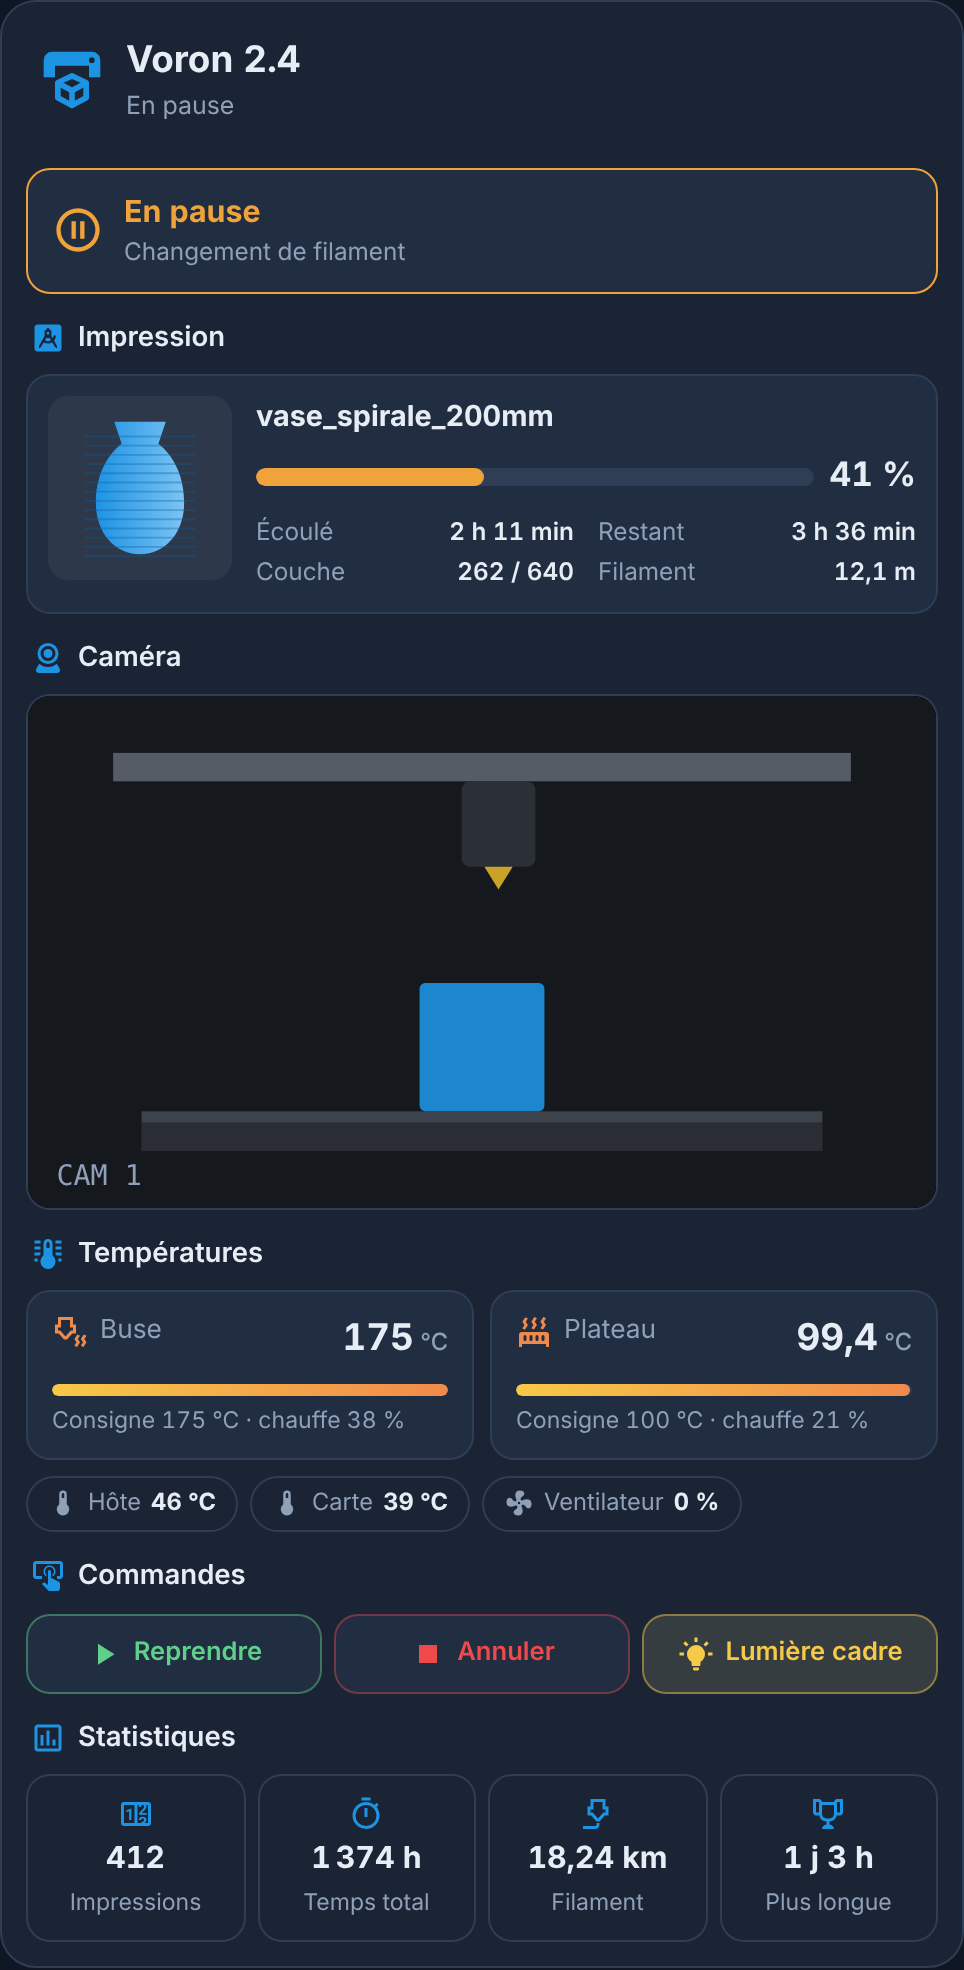
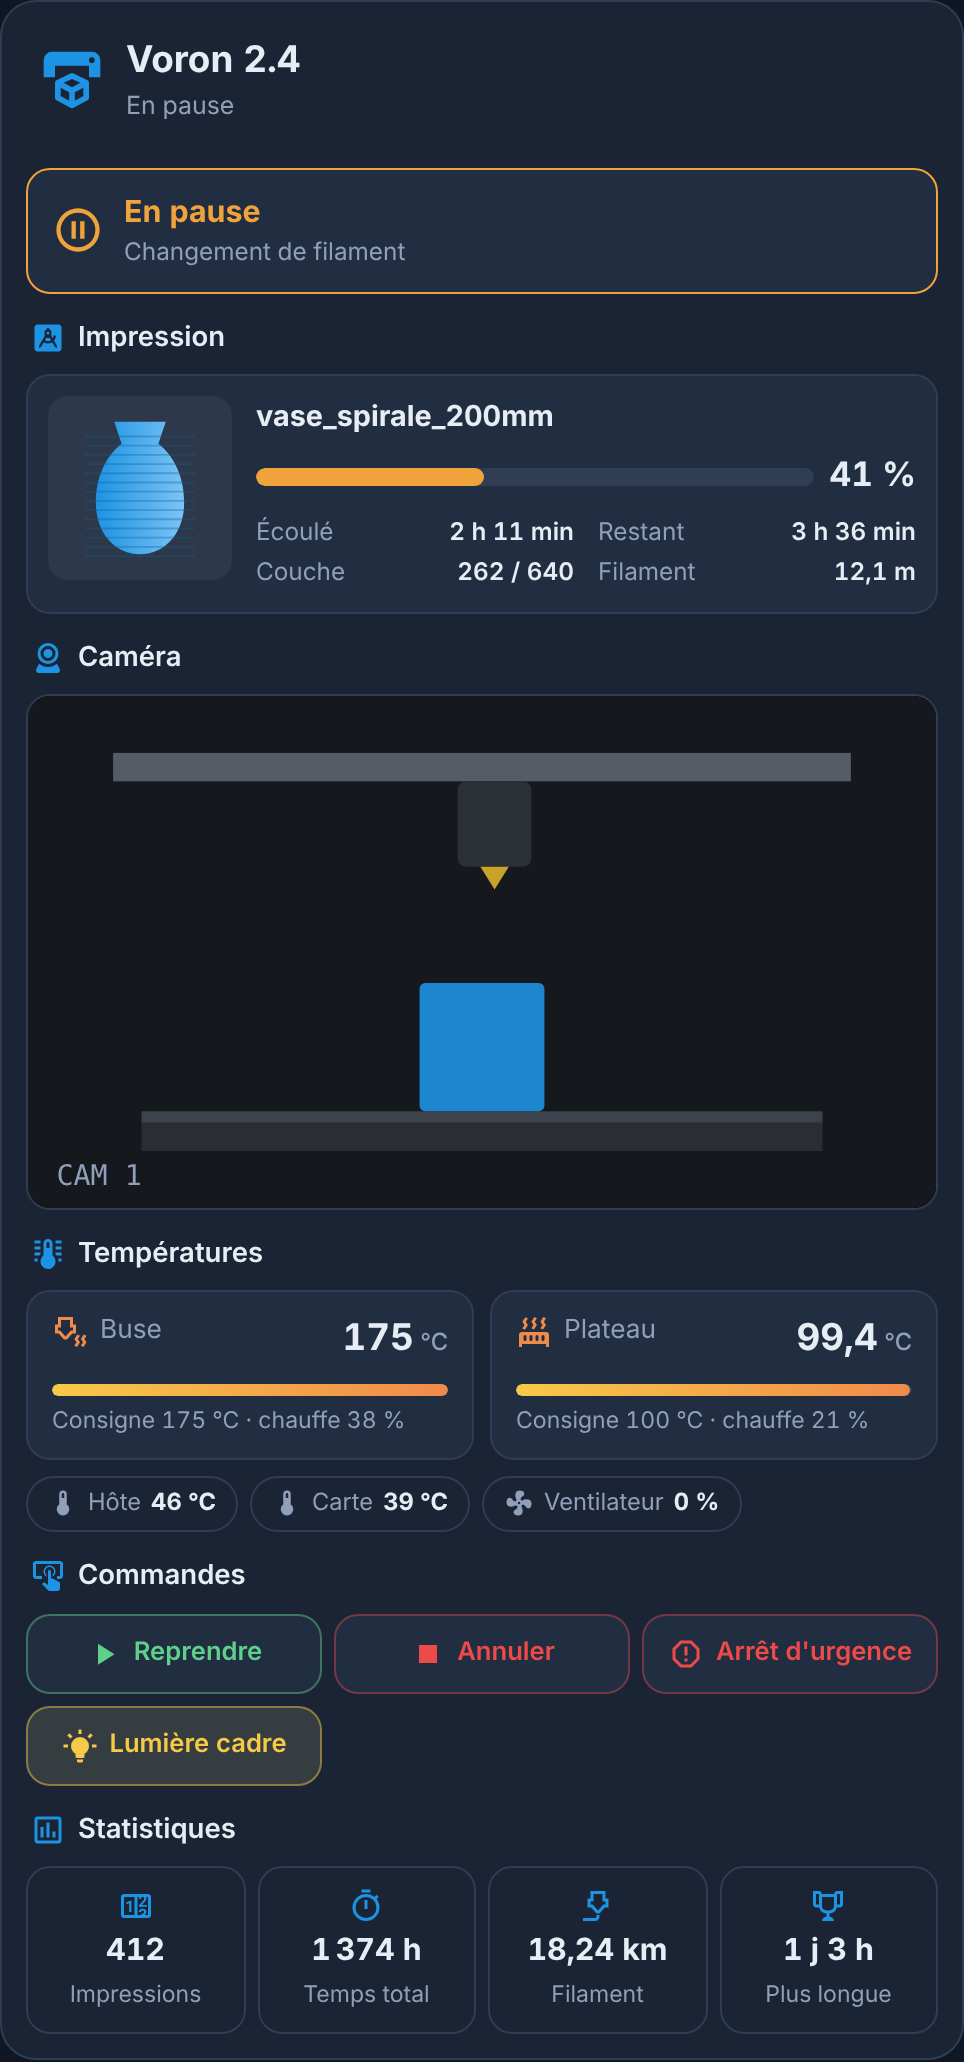
fix: le bouton Annuler pouvait viser l'arrêt d'urgence
emergency_stop se termine par « _stop », motif aussi reconnu pour
l'annulation : selon l'ordre des entités, « Annuler » pouvait appuyer sur
l'arrêt d'urgence, et le bouton « Arrêt d'urgence » n'apparaissait pas.
L'arrêt d'urgence est désormais reconnu avant l'annulation.

Claude-Session: https://claude.ai/code/session_01CSixJnFf4qBMac7uTfNvnW

diff --git a/printers-card.js b/printers-card.js
@@ -49,8 +49,10 @@ const when = (d) => (d.toDateString() === new Date().toDateString() ? hm(d)
 const PLATFORMS = { moonraker: "Moonraker", octoprint: "OctoPrint", prusalink: "PrusaLink", bambu_lab: "Bambu Lab" };
 /** Rôle d'une entité : fin de son nom (identique en français et en anglais pour ces intégrations). */
 const ROLES = [
-  // les noms les plus précis d'abord (totals_print_time avant print_time, target_bed_temperature avant bed_temperature)
+  // les noms les plus précis d'abord (emergency_stop avant stop, totals_print_time avant print_time, target_bed_temperature avant bed_temperature)
   ["pstate", "sensor", /_(printer_state)$/],
+  // avant « cancel » : emergency_stop se termine aussi par _stop
+  ["estop", "button", /_(emergency_stop)$/],
   ["jobs", "sensor", /_(totals_jobs)$/],
   ["total_time", "sensor", /_(totals_print_time)$/],
   ["total_filament", "sensor", /_(totals_filament_used)$/],
@@ -83,7 +85,6 @@ const ROLES = [
   ["pause", "button", /_(pause_print|pause_job|pause)$/],
   ["resume", "button", /_(resume_print|resume_job|resume)$/],
   ["cancel", "button", /_(cancel_print|stop_job|cancel_job|stop)$/],
-  ["estop", "button", /_(emergency_stop)$/],
   ["home", "button", /_(home_all_axes)$/],
   ["filament_sensor", "binary_sensor", /_(filament_sensor|filament_runout)$/],
 ];
